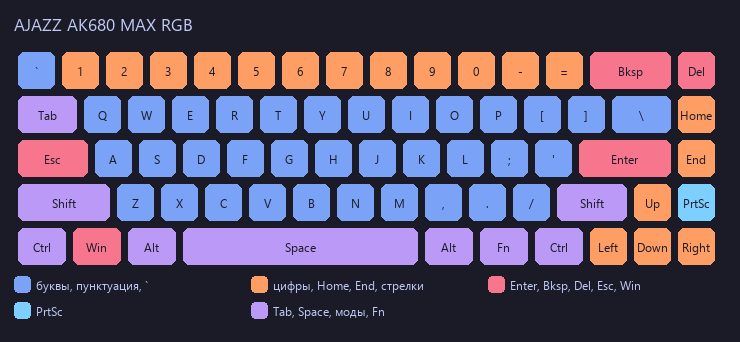
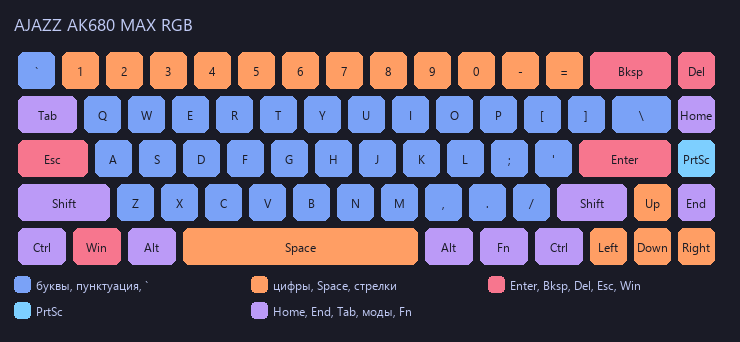
Раскладка: PrtSc/End обратно; Space оранжевый, Home/End фиолетовые
- 87 = PrtScr, 88 = End (вернули исходный порядок после свопа);
- подсветка: Space — оранжевый #ff8000, Home и End — фиолетовые #cc33ff
  (и на клавиатуре, и на картинке); стрелки остались оранжевыми;
- легенда превью обновлена, PNG пересобраны, README/AGENTS/TASKS поправлены.

diff --git a/README.md b/README.md
@@ -10,7 +10,7 @@
 | CapsLock | **Esc** (CapsLock убран за ненадобностью) | прошивка (remap index 3 → Escape) |
 | Esc (угол, слева от 1) | **`** (HID grave; в RU — ё) | прошивка (remap index 1 → grave) |
 | Fn + «е» (физический `T`) | **`** (в RU — ё) — запасной способ | прошивка (remap `Fn+T` → `` ` ``) |
-| Колонка (Home/Del/PgUp/PgDn) | **Del/Home/End/PrtSc** (PrtSc и End поменяны местами) | прошивка (remap 85–88) |
+| Колонка (Home/Del/PgUp/PgDn) | **Del/Home/PrtSc/End** (PrtSc и End вернули как было) | прошивка (remap 85–88) |
 | Правый Shift | **обычный Shift** (по умолчанию) | — |
 | Правый Alt | **переключение на EN** | Hyprland bind `code:108` |
 | Правый Ctrl | **переключение на RU** | Hyprland bind `code:105` |
@@ -41,7 +41,7 @@ python windows\ak680_apply.py --verify   # когда угодно: сверит
 
 | Что | Значение |
 |-----|----------|
-| base-слой | `3→Esc`, `1→grave`, `85→Del`, `86→Home`, `87→End`, `88→PrtScr` |
+| base-слой | `3→Esc`, `1→grave`, `85→Del`, `86→Home`, `87→PrtScr`, `88→End` |
 | Fn-слой | `Fn+T` → grave (в EN — `` ` ``, в RU — ё) |
 | Hall Effect | активация 1.0 мм, отпускание 1.5 мм, все 90 позиций |
 | Подсветка | userpic TokyoNight по клавишам, слот 0, режим LED 13 |
@@ -72,8 +72,8 @@ iot_driver remap 1 '`'               # угол (физический Esc) -> gr
 iot_driver remap "Fn+T" '`'          # Fn+«е» -> grave/ё (запасной способ)
 iot_driver remap 85 Delete           # Home -> Delete
 iot_driver remap 86 Home             # Delete -> Home
-iot_driver remap 87 End              # PageUp -> End
-iot_driver remap 88 prtsc            # PageDown -> PrtScr
+iot_driver remap 87 prtsc            # PageUp -> PrtScr
+iot_driver remap 88 End              # PageDown -> End
 ```
 
 Hall Effect (все клавиши): активация **1.0 мм**, отпускание **1.5 мм** — лёгкое срабатывание.
@@ -106,7 +106,7 @@ python windows\ak680_apply.py --write-png assets   # пересобрать PNG 
 ```
 
 Скрипт делает то же, что команды выше: шесть ремапов base-слоя (`3→Esc`, `1→grave`,
-`85→Delete`, `86→Home`, `87→End`, `88→PrtScr`), `Fn+T → `` ` `` (SET_FN), активация 1.0 /
+`85→Delete`, `86→Home`, `87→PrtScr`, `88→End`), `Fn+T → `` ` `` (SET_FN), активация 1.0 /
 отпускание 1.5 мм (`SET_MULTI_MAGNETISM`, все 90 позиций) и userpic TokyoNight **по
 клавишам** в слот 0 + режим LED 13. Перед записью всегда снимает бэкап в JSON — им же
 можно вернуть как было.
@@ -166,20 +166,20 @@ sudo iot_driver reset-key "L1+T"
 | Буквы | A–Z | синий `#7aa2f7` |
 | Пунктуация | `[ ] \ ; ' , . /` | синий `#7aa2f7` (как буквы) |
 | Угол (физический Esc) | `` ` `` | синий `#7aa2f7` |
-| Цифры, Home/End, стрелки | 1–0, `-`, `=`, Home/End, ← ↓ → ↑ | оранжевый `#ff8000` |
+| Цифры, Space, стрелки | 1–0, `-`, `=`, Space, ← ↓ → ↑ | оранжевый `#ff8000` |
 | Enter / Backspace | ⏎ ⌫ | красный `#ff0018` |
 | Delete | Del | красный `#ff0018` |
 | Esc (на месте CapsLock) | Esc | красный `#ff0018` |
 | Win | ⊞ | красный `#ff0018` |
 | PrintScreen | PrtSc | голубой `#4fc3ff` |
-| Модификаторы | Tab, Space, Shift, Ctrl, Alt, Fn | фиолетовый `#cc33ff` |
+| Home, End, модификаторы | Home/End, Tab, Shift, Ctrl, Alt, Fn | фиолетовый `#cc33ff` |
 
 Это **сочные** варианты зон, а не hex-коды TokyoNight: пастельные `#ff9e64`,
 `#e0af68`, `#f7768e`, `#bb9af7` на подсветке выглядели белёсыми (у тёплых в составе
 много синего — он яркий и добавляет белизны; у фиолетового синий в максимуме — и он
 читался как синий). Поэтому у оранжевого и красного `B = 0`, фиолетовый сдвинут
-в красную сторону. Отдельного жёлтого нет: Home/End и стрелки — того же оранжевого,
-что и цифры.
+в красную сторону. Отдельного жёлтого нет: Space и стрелки — того же оранжевого,
+что и цифры; Home и End — фиолетовые, как модификаторы.
 
 Превью `assets/keyboard-tokyonight.png` при этом рисуется **пастельной** палитрой
 TokyoNight (`PREVIEW` в скрипте) — картинка должна выглядеть как TokyoNight, а не как

diff --git a/AGENTS.md b/AGENTS.md
@@ -24,8 +24,8 @@
   в соседнюю клавишу. По индексу — применяется верно (имя в выводе будет неправильным — это нормально).
 - **Index 0 — пустышка**: `remap 0 ...` молча не применяется. Физический Esc — **index 1**.
 - Текущая раскладка: `3` (CapsLock) → **Esc**, `1` (угол/Esc) → **grave (в EN `` ` ``)**,
-  `32` (T) → grave на Fn-слое, `85–88` → Del/Home/End/PrtScr (PrtSc и End поменяны:
-  87=End, 88=PrtScr). CapsLock не используется.
+  `32` (T) → grave на Fn-слое, `85–88` → Del/Home/PrtScr/End (исходный порядок).
+  CapsLock не используется.
 - `remap N N` ≠ no-op: числовая цель трактуется как клавиша-цифра и перезапишет клавишу.
   Меняешь прошивку — начинай с `reset`.
 - Слои: Fn — `remap "Fn+T" ...`, слой 1 — `remap "L1+T" ...`.
@@ -53,8 +53,9 @@
 - **Палитра намеренно сочная, не hex-коды TokyoNight**: пастельные `#ff9e64`/`#e0af68`/
   `#f7768e`/`#bb9af7` на подсветке выглядят белым/розовым/синим (у тёплых много синего,
   у фиолетового синий в максимуме). Поэтому у оранжевого и красного `B = 0`,
-  фиолетовый краснее (`#cc33ff`), отдельного жёлтого нет — Home/End и стрелки
-  оранжевые, как цифры; Win — красный (по просьбе юзера, вместе с Enter/Bksp/Del/Esc).
+  фиолетовый краснее (`#cc33ff`), отдельного жёлтого нет — Space и стрелки
+  оранжевые, как цифры, а Home/End — фиолетовые; Win — красный (по просьбе юзера,
+  вместе с Enter/Bksp/Del/Esc).
   Не «возвращай красивые hex» в `TOKYO` — проверяй на железе.
 - **Превью ≠ железо**: `assets/keyboard-tokyonight.png` рисуется пастельной палитрой
   `PREVIEW` (как TokyoNight на экране), в прошивку идут сочные `TOKYO` + `LED_GAIN`.

diff --git a/TASKS.md b/TASKS.md
@@ -30,9 +30,10 @@
 ## Подсветка
 
 - [x] **Поправить цвета** — сделано 2026-10-25/26: палитра TokyoNight по клавишам,
-      но сочными вариантами (буквы/пунктуация/` синие, цифры и Home/End/стрелки
-      оранжевые, Enter/Bksp/Del/Esc/Win красные, PrtSc голубой, моды фиолетовые). Правый
-      столбец: Del/Home/End/PrtSc, причём PrtSc и End поменяны местами (87=End, 88=PrtSc).
+      но сочными вариантами (буквы/пунктуация/` синие, цифры, Space и стрелки
+      оранжевые, Enter/Bksp/Del/Esc/Win красные, PrtSc голубой, Home/End и моды
+      фиолетовые). Правый столбец: Del/Home/PrtSc/End (PrtSc и End пробовали
+      менять местами — вернули как было).
       Пастельные hex TokyoNight на LED вымывались в белый/розовый/синий, поэтому у тёплых
       каналов B=0, фиолетовый краснее (`#cc33ff`). Превью при этом остаётся пастельным
       (`PREVIEW`) — юзер попросил не менять цвета на картинке.
